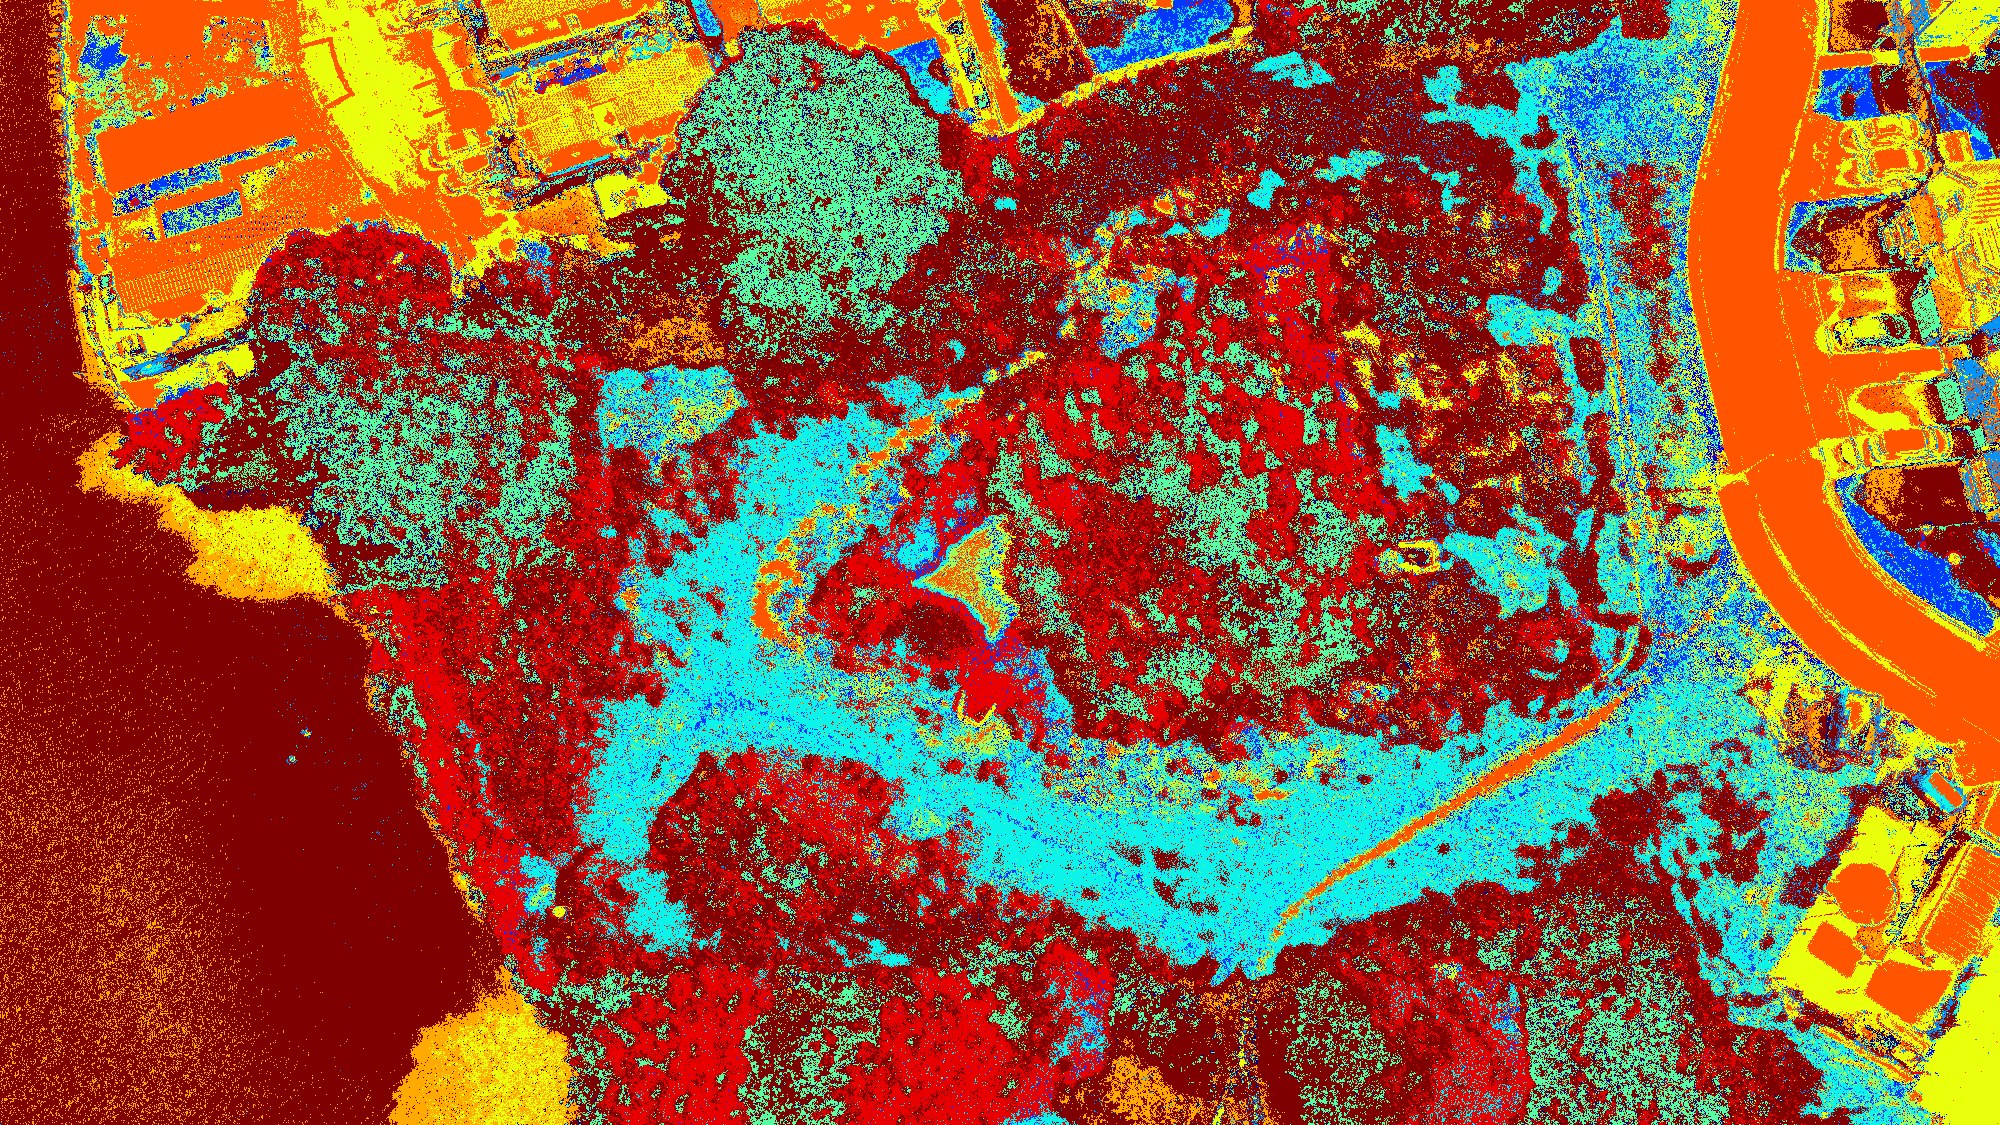
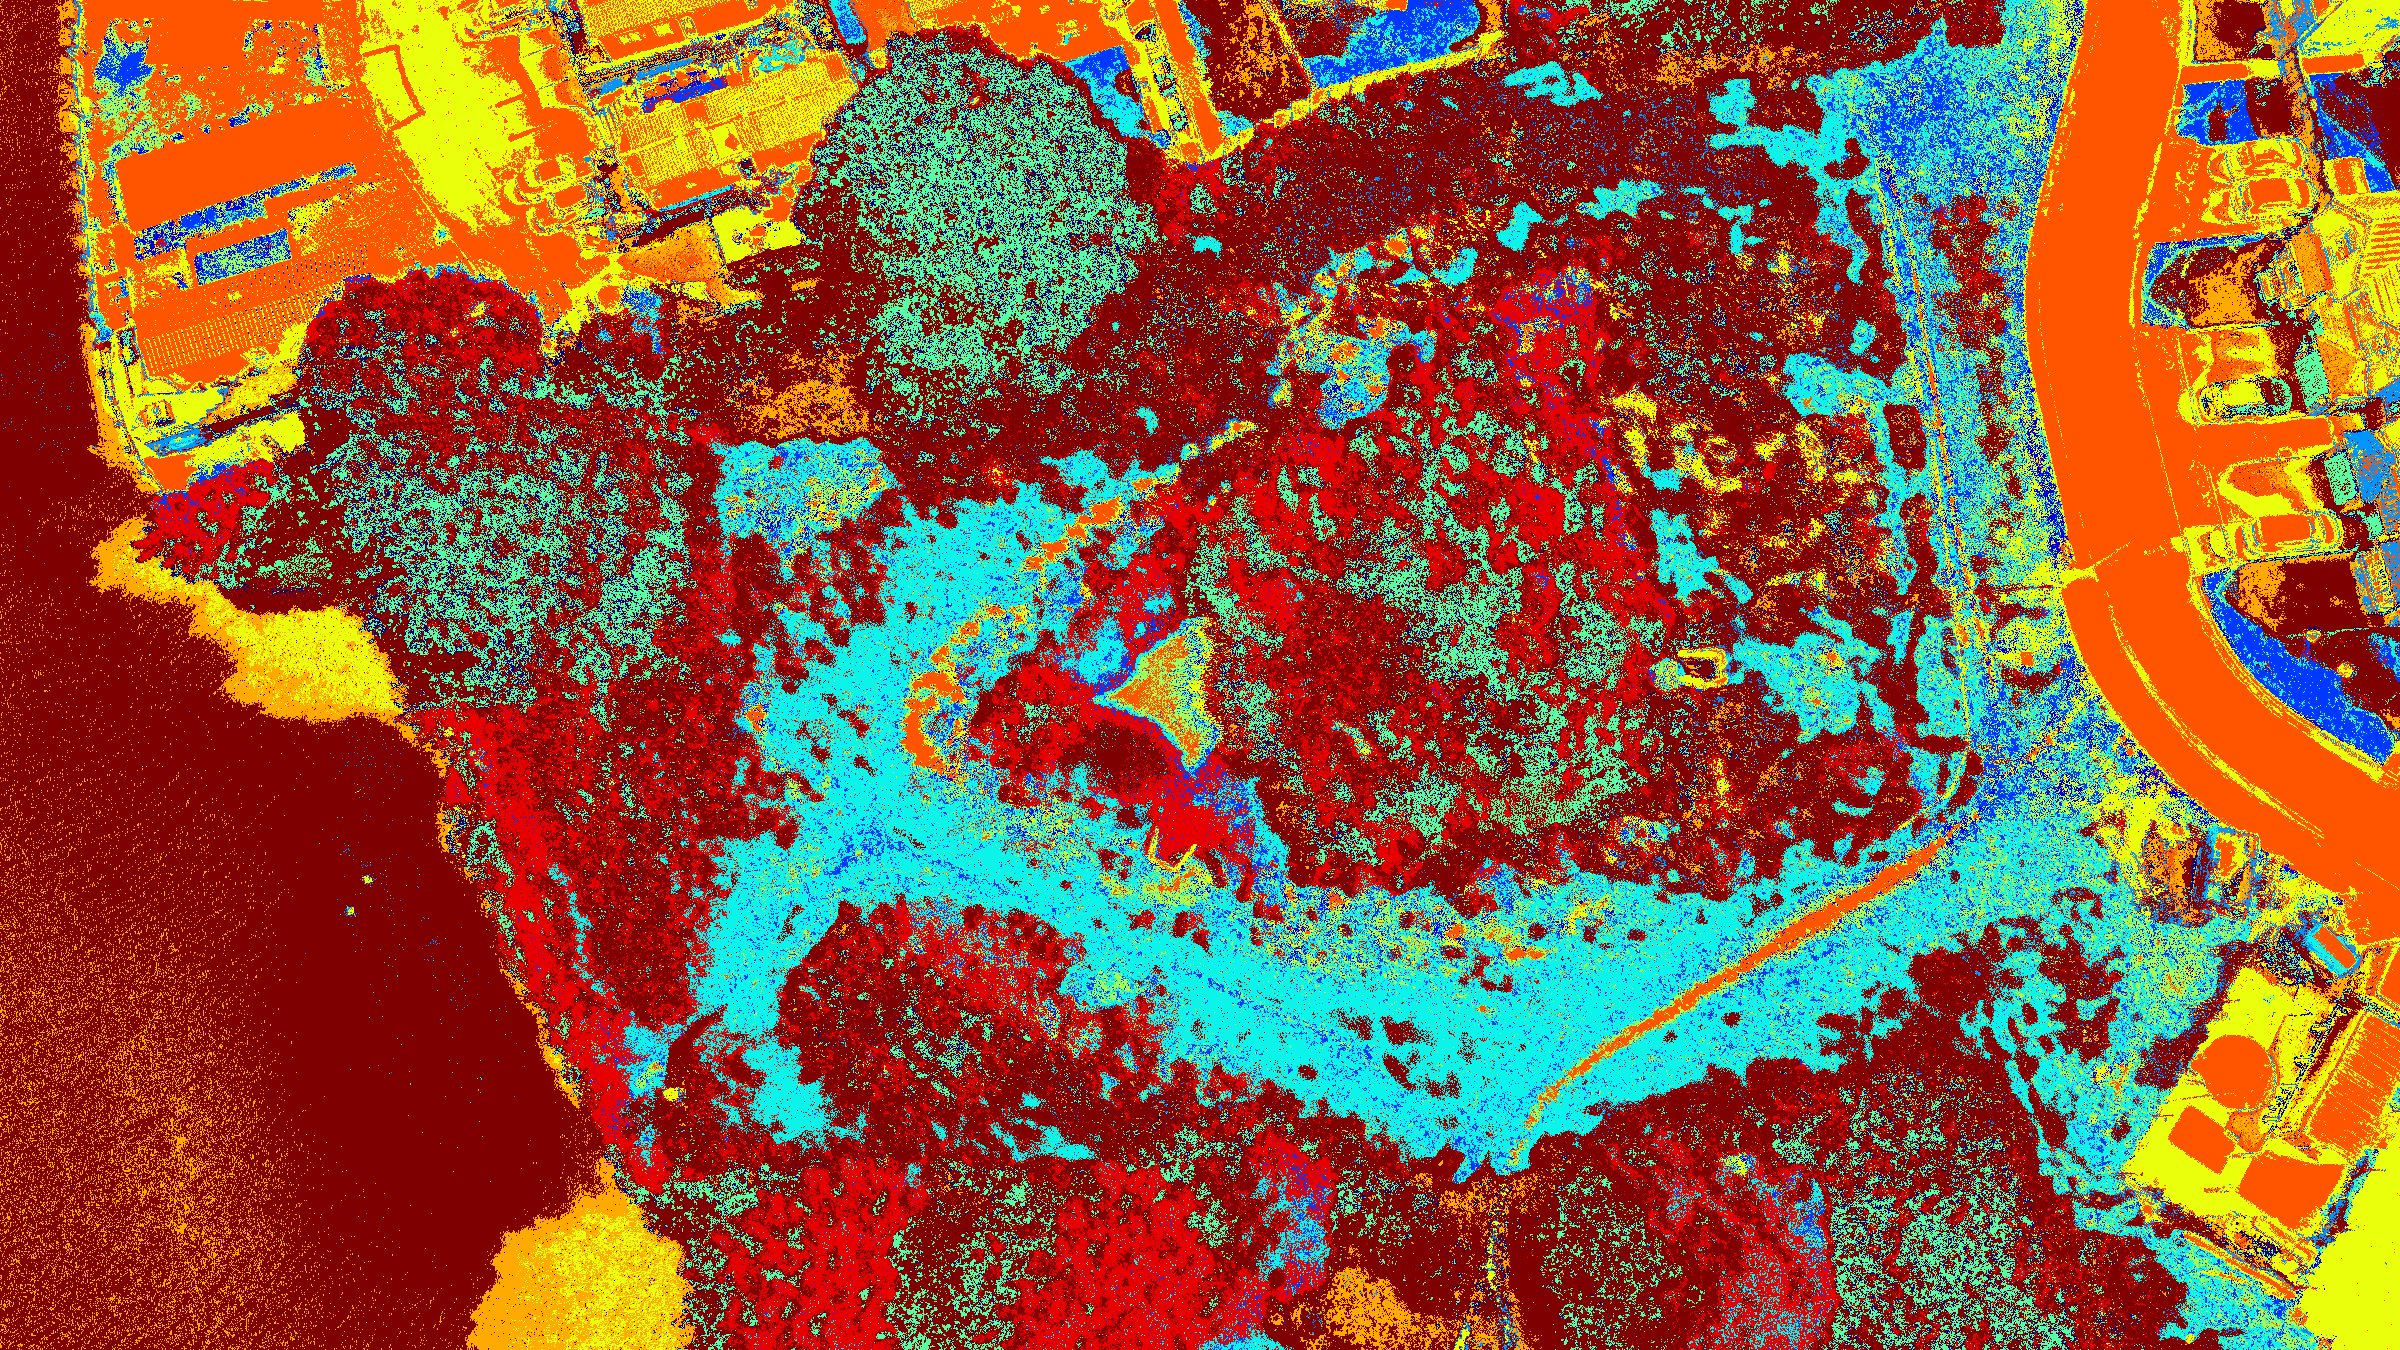
updated predict3

diff --git a/train3.py b/train3.py
@@ -16,7 +16,7 @@ from consolidate_labels import stack_labels, resize
 
 pd.options.display.float_format = '{:,.4f}'.format
 labels_json = "labels/labels.json"
-scale_percent = 50
+scale_percent = 60
 img_label, label_classes = stack_labels(labels_json, scale_percent)
 
 img_label = img_label[:, :, 2]

diff --git a/predict3.py b/predict3.py
@@ -7,7 +7,7 @@ from gabor import extract_features
 filename = 'RandomForestClassifier3.pkl'
 model = pickle.load(open(filename, 'rb'))
 
-scale_percent = 50
+scale_percent = 60
 images = 13
 
 f, axar = plt.subplots(images, 2)
